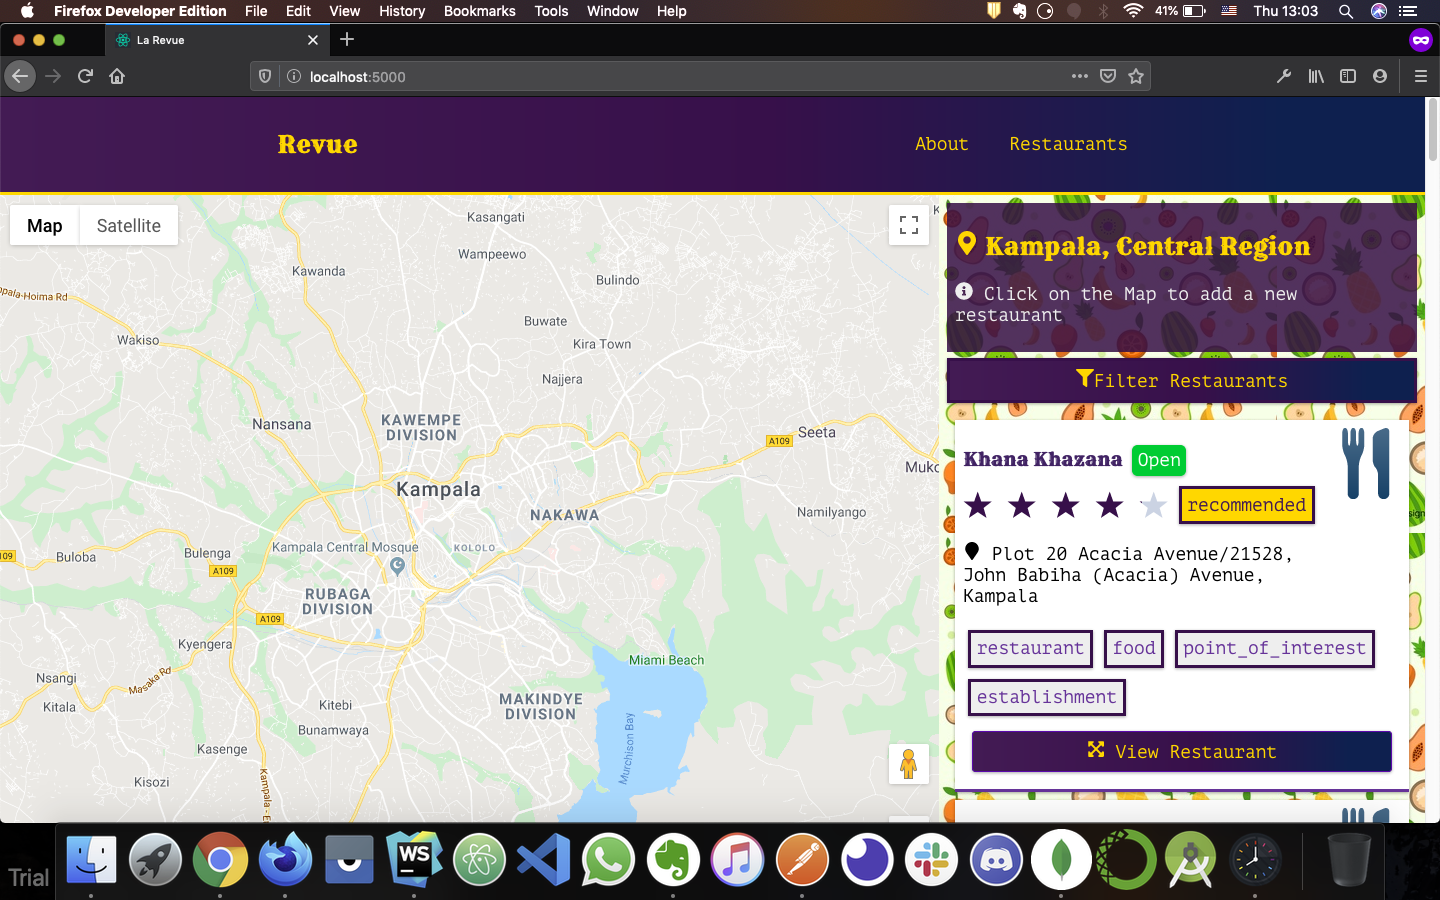
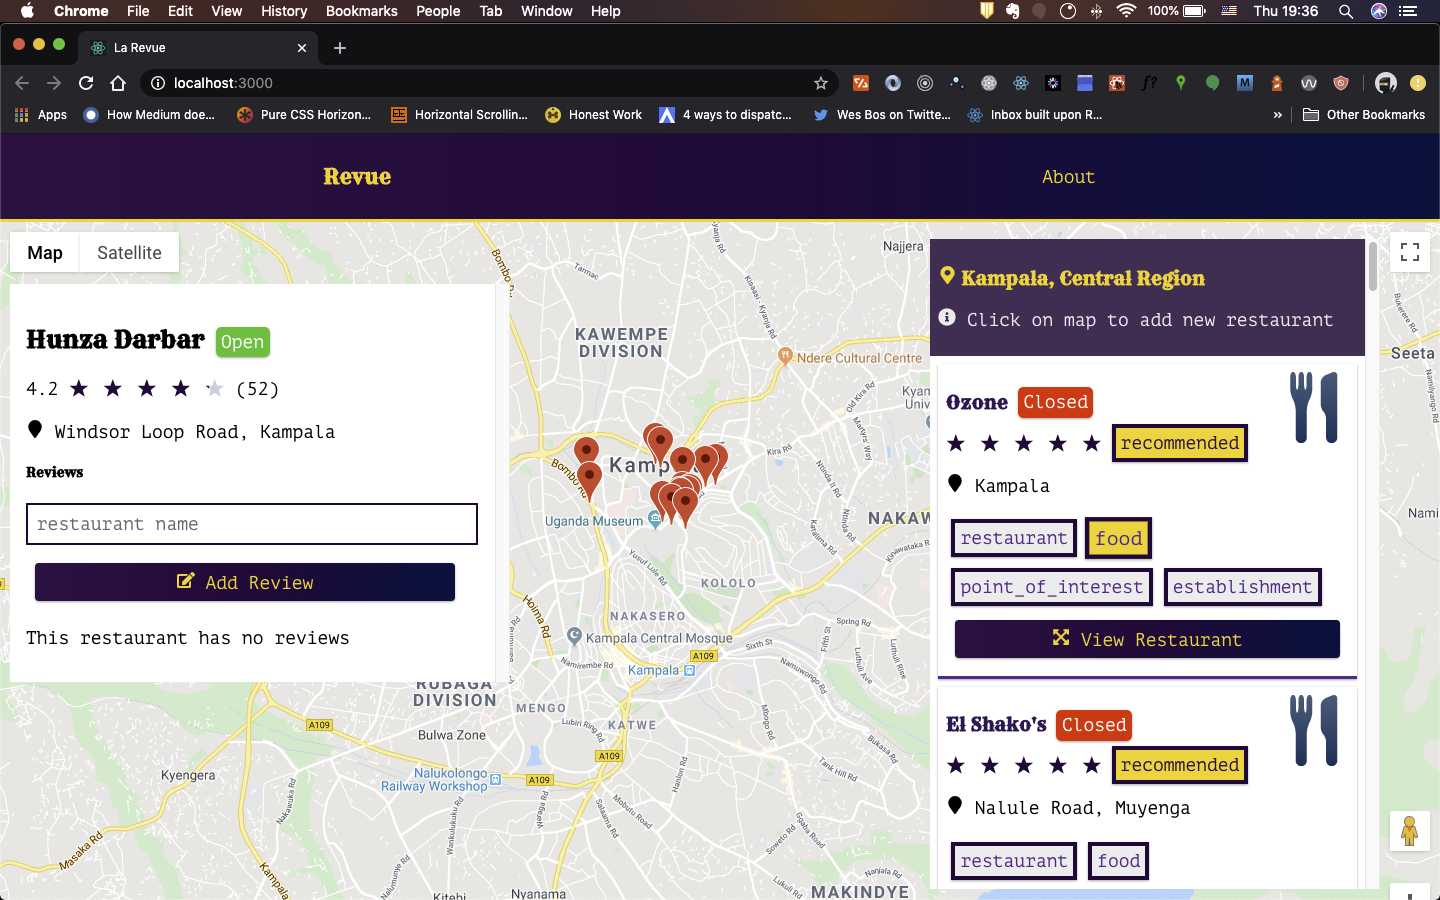
upated README.md

diff --git a/client/src/Screens/Home.js b/client/src/Screens/Home.js
@@ -232,7 +232,6 @@ const HomeScreen = () => {
             <Controls>
 
               { modalVisible ? <AddRestaurant addRestaurant={addRestaurant} /> : null }
-              <FilterComponent />
               <RestaurantInfo
                 city={city}
                 country={country}

diff --git a/README.md b/README.md
@@ -1,6 +1,5 @@
 # La Revue
-A restaurant review website.  
-Part of OpenClassroom's Front-End Developer diploma program.
+A restaurant reviewing website that allows you to find restaurant and leave reviews based on your geographical location.
 
 ![Screenshot of home page](./Screenshot.png)
 
@@ -41,9 +40,24 @@ You will need the following dependencies installed on your system.
 - Run `yarn install` or `npm install`.
 - Open your browser and visit `http://localhost:5000`.
 
-### Built with
-- Node.js and Express for the server.
-- MongoDB for the database.
+## Built with
+### ECMAScript 7 (“ES7” / JavaScript)
+ECMAScript™ is the standard behind JavaScript. It has had a number of very useful additions over the past several years, modernizing the syntax and providing new capabilities.
+
+### Node.js
+Node.js® is a JavaScript runtime built on Chrome's V8 JavaScript engine. It allows you to run JavaScript code on server environments.  
+[**Learn More**](https://nodejs.org/en/)
+
+### React.js
+React is a JavaScript library for building user interfaces. It is maintained by Facebook and a community of individual developers and companies. 
+[**Learn More**](https://reactjs.org/)
+
+### MongoDB
+MongoDB is a general purpose, document-based, distributed database built for modern application developers and for the cloud era. No database makes you more productive.  
+[**Learn More**](https://www.mongodb.com/)
 - React and styled-components for the frontend.
-- Google Maps, Google Places, Google Geolocation and Google Geocoding APIs.
+
+### Google Maps APIs
+Google Maps is a web mapping service developed by Google. It offers satellite imagery, aerial photography, street maps, 360° panoramic views of streets, real-time traffic conditions, and route planning for traveling by foot, car, bicycle and air, or public transportation.
+[**Learn More**](https://cloud.google.com/maps-platform/)
 
